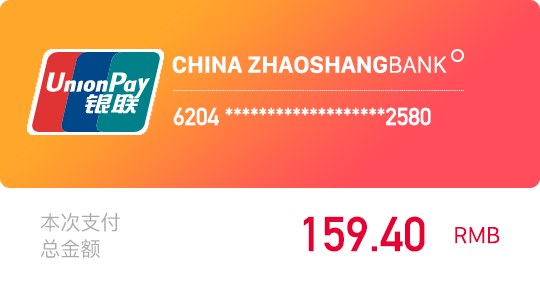
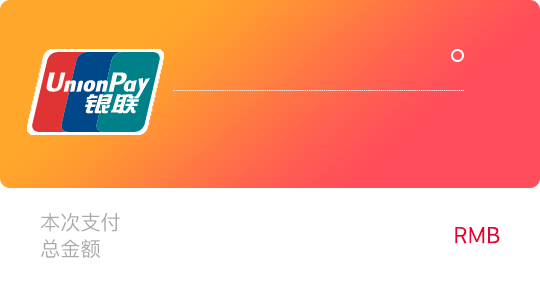
YYL

Changed region(s): [[0.3259, 0.3649, 0.8, 0.4491], [0.2963, 0.1965, 0.8296, 0.2807], [0.563, 0.7579, 0.8, 0.8982]]

diff --git a/takeOut/css/yyl_css/cardpay.css b/takeOut/css/yyl_css/cardpay.css
@@ -12,11 +12,33 @@ body{
     width:100%;
     background: #E60033;
 }
-.yyl_box .beij img{
+.yyl_box  img{
     height:2.88rem;
     width:5.4rem;
-    margin-top:1.46rem;
+    margin-top:-1.46rem;
 }
+.yyl_box .bank{
+    display: block;
+    font-size: 12px;
+    color:#fff;
+    margin-top:-2.48rem;
+    margin-left: 0.99rem;
+}
+.yyl_box .card{
+    display: block;
+    font-size: 8px;
+    color:#fff;
+    margin-top:.3rem;
+    margin-left: 0.95rem;
+}
+.yyl_box h2{
+    display: block;
+    margin-left: 2.5rem;
+    margin-top: .76rem;
+    font-size: 16px;
+    color:#E60033;
+}
+
 .btn{
     width:3.64rem;
     height:0.68rem;

diff --git a/takeOut/yyl_cardpay.html b/takeOut/yyl_cardpay.html
@@ -38,10 +38,12 @@
         <!--中间部分-->
          <div class="yyl_box">
              <!--图片-->
-            <div class="beij">
-                <img src="images/yyl_yhk.png" alt="">
-            </div>
+             <div class="beij"></div>
+             <img src="images/yyl_yhk.png" alt="">
+             <span class="bank">CHINAZHAOSHANGBANK</span>
+             <span class="card">6204 *******************2580</span>
              <!--图片-->
+            <h2>159.40</h2>
          </div>
         <!--中间部分-->
 
